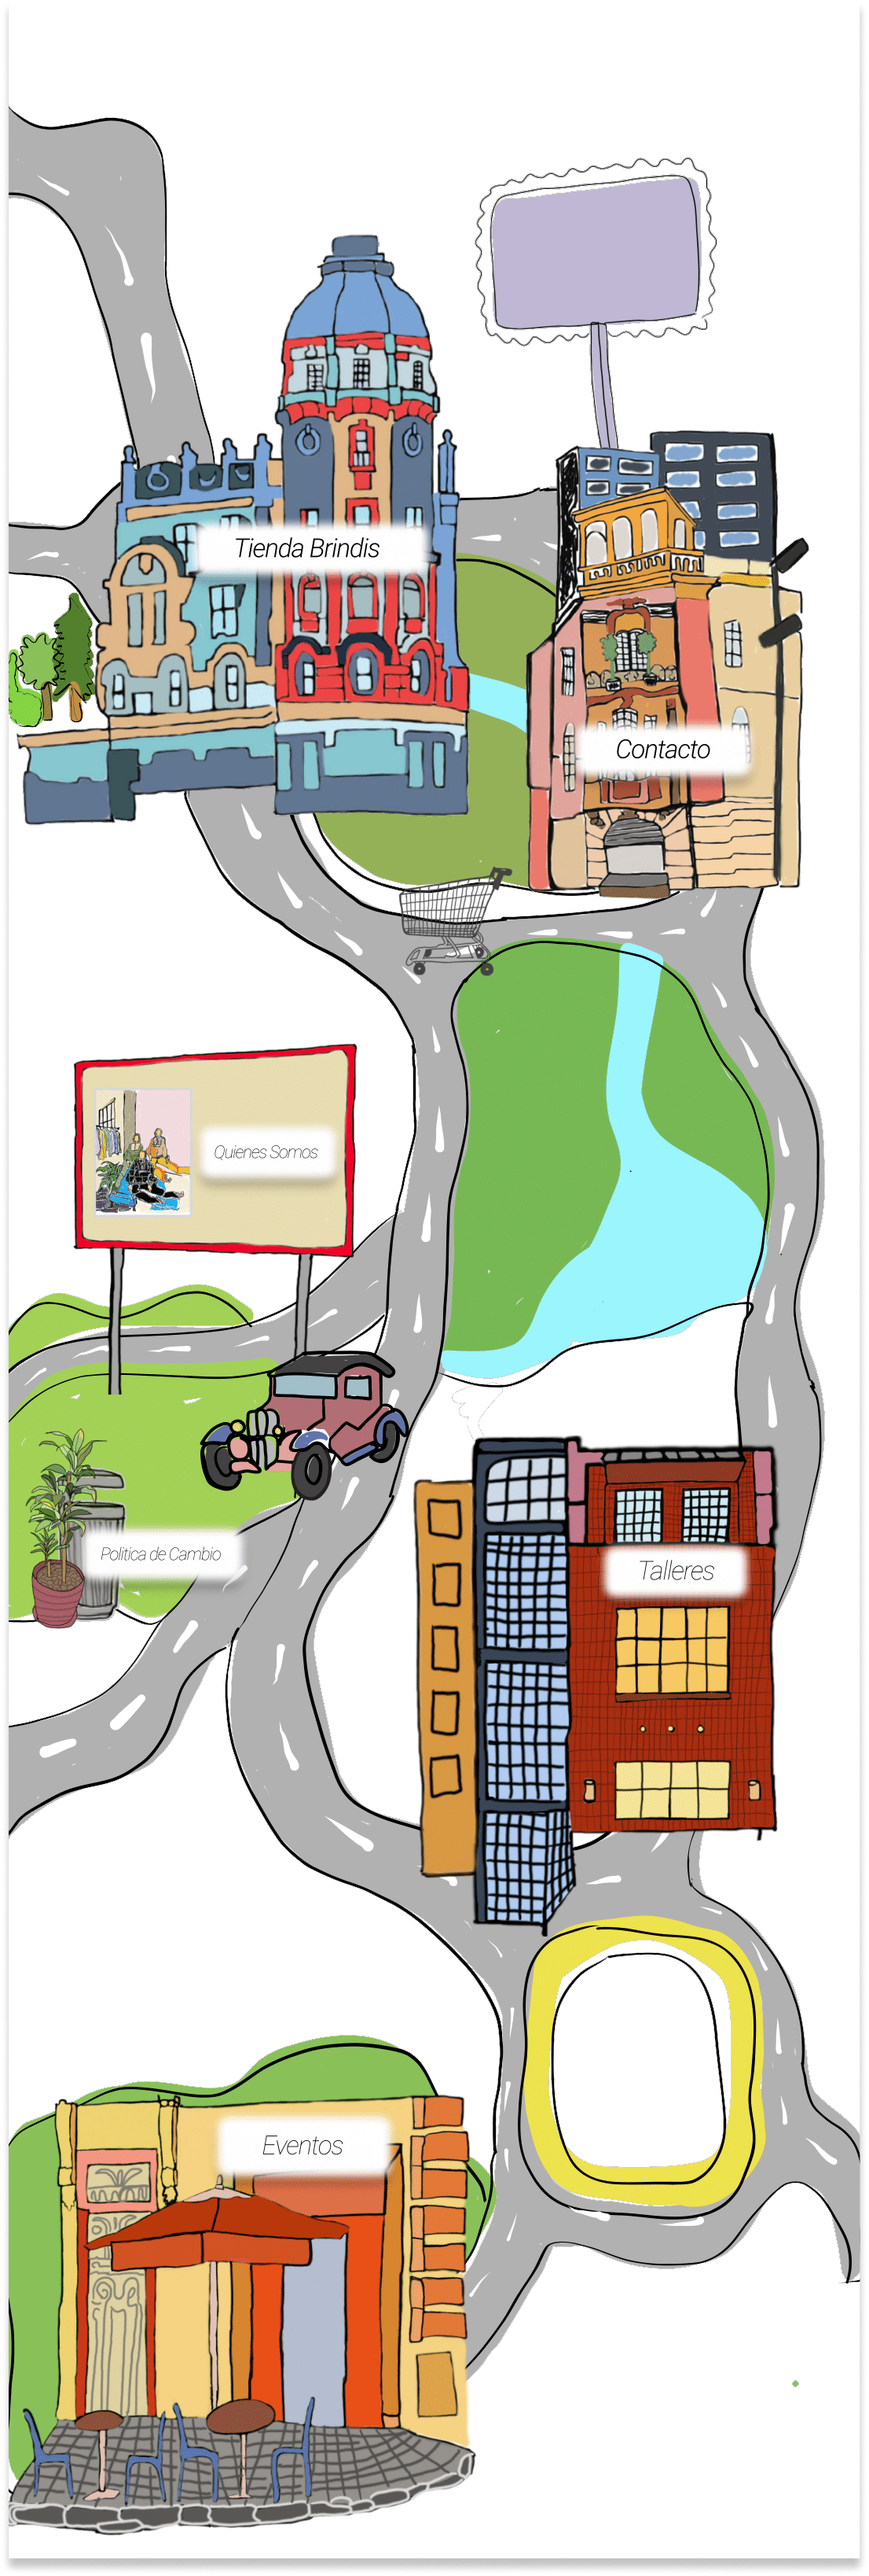
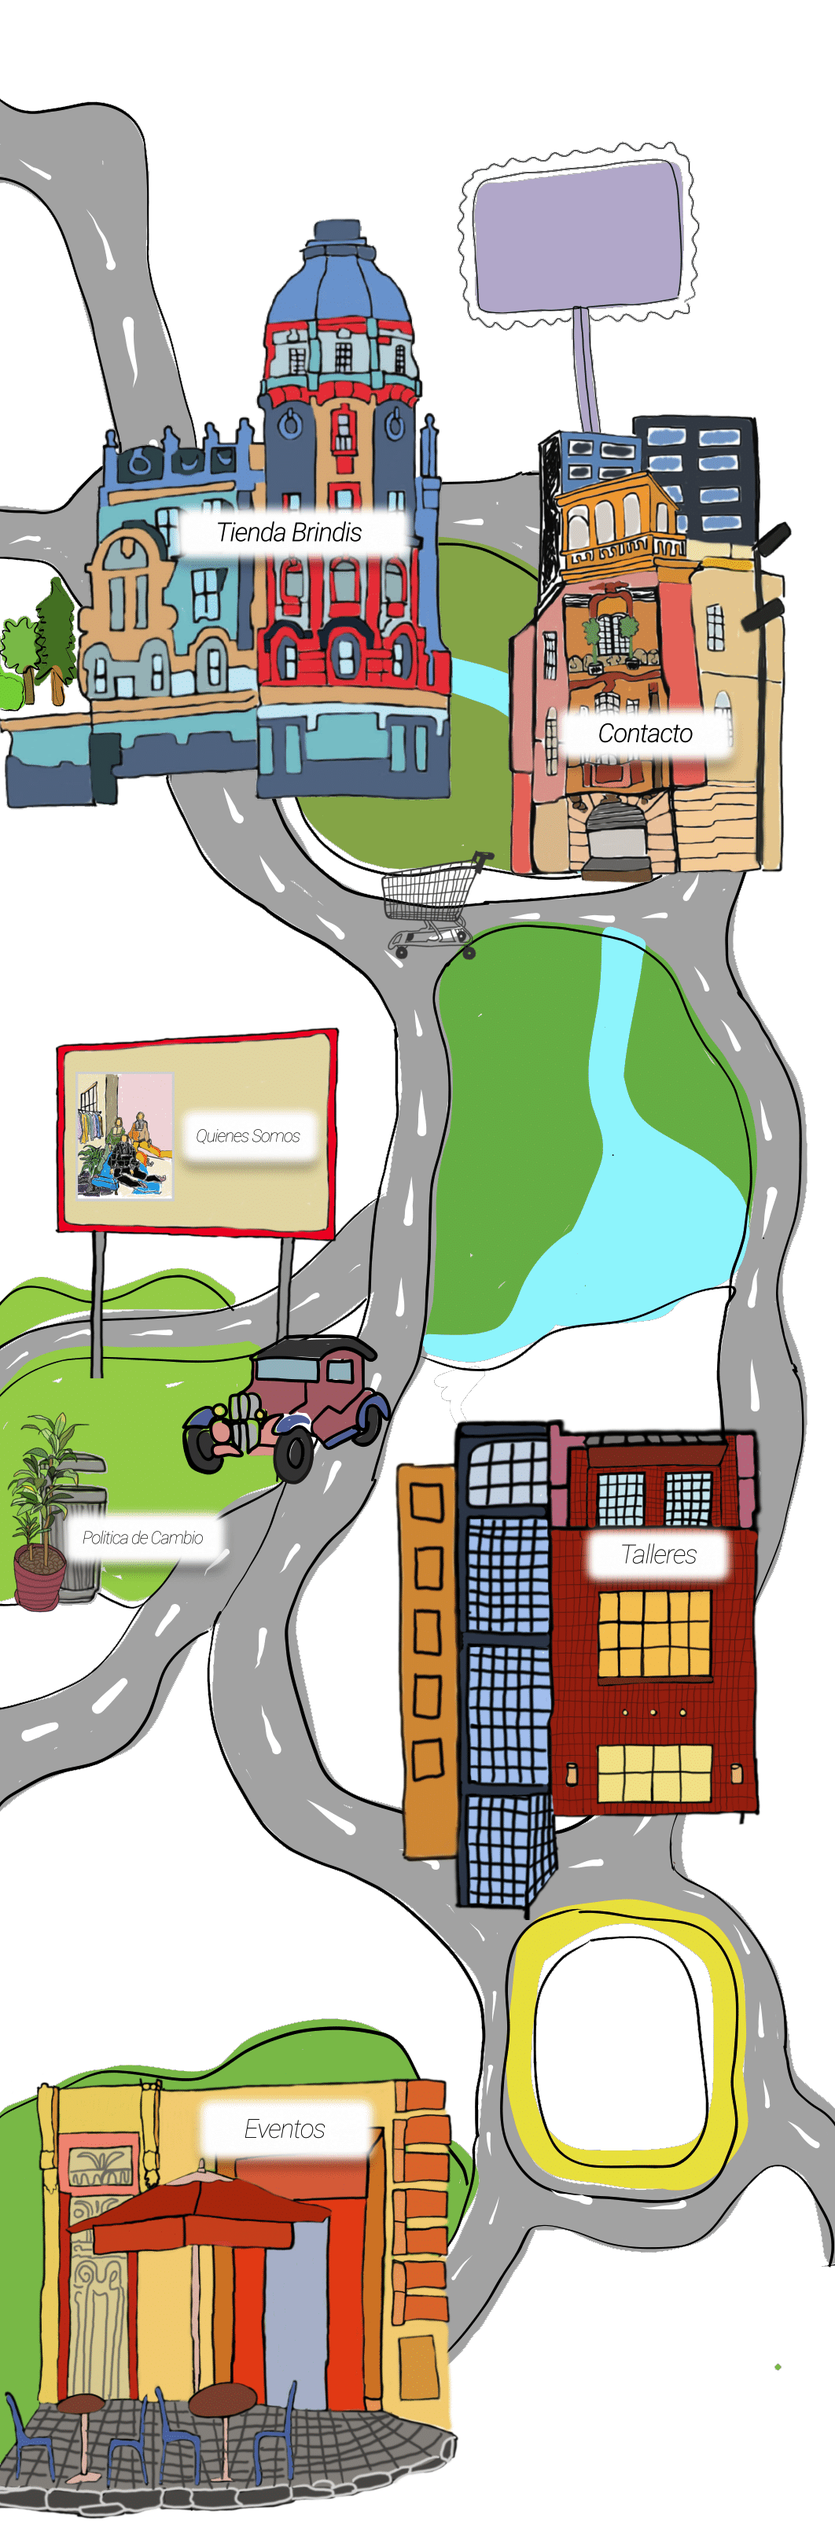
home mobile background

diff --git a/app/assets/stylesheets/pages/_home_mobile.scss b/app/assets/stylesheets/pages/_home_mobile.scss
@@ -1,13 +1,17 @@
 .home_mobile {
   position: relative;
+  background-image: asset-url("mobile/background-mobile.png");
+  background-size: contain;
+  background-repeat: no-repeat;
+  background-position-y: 6vh;
 
-  img {
-    position: absolute;
-    z-index: -1;
-    width: 100%;
-    height: 100%;
-    object-fit: cover;
-  }
+  // img {
+  //   position: absolute;
+  //   z-index: -1;
+  //   width: 100%;
+  //   height: 100%;
+  //   object-fit: contain;
+  // }
 
   a {
     height: 30vh;
@@ -31,7 +35,9 @@
   }
 
   #link-eventos {
-    transform: translate(5px, -128px);
+    position: absolute;
+    bottom: 9vh;
+    left: 6vw;
   }
 
 }
